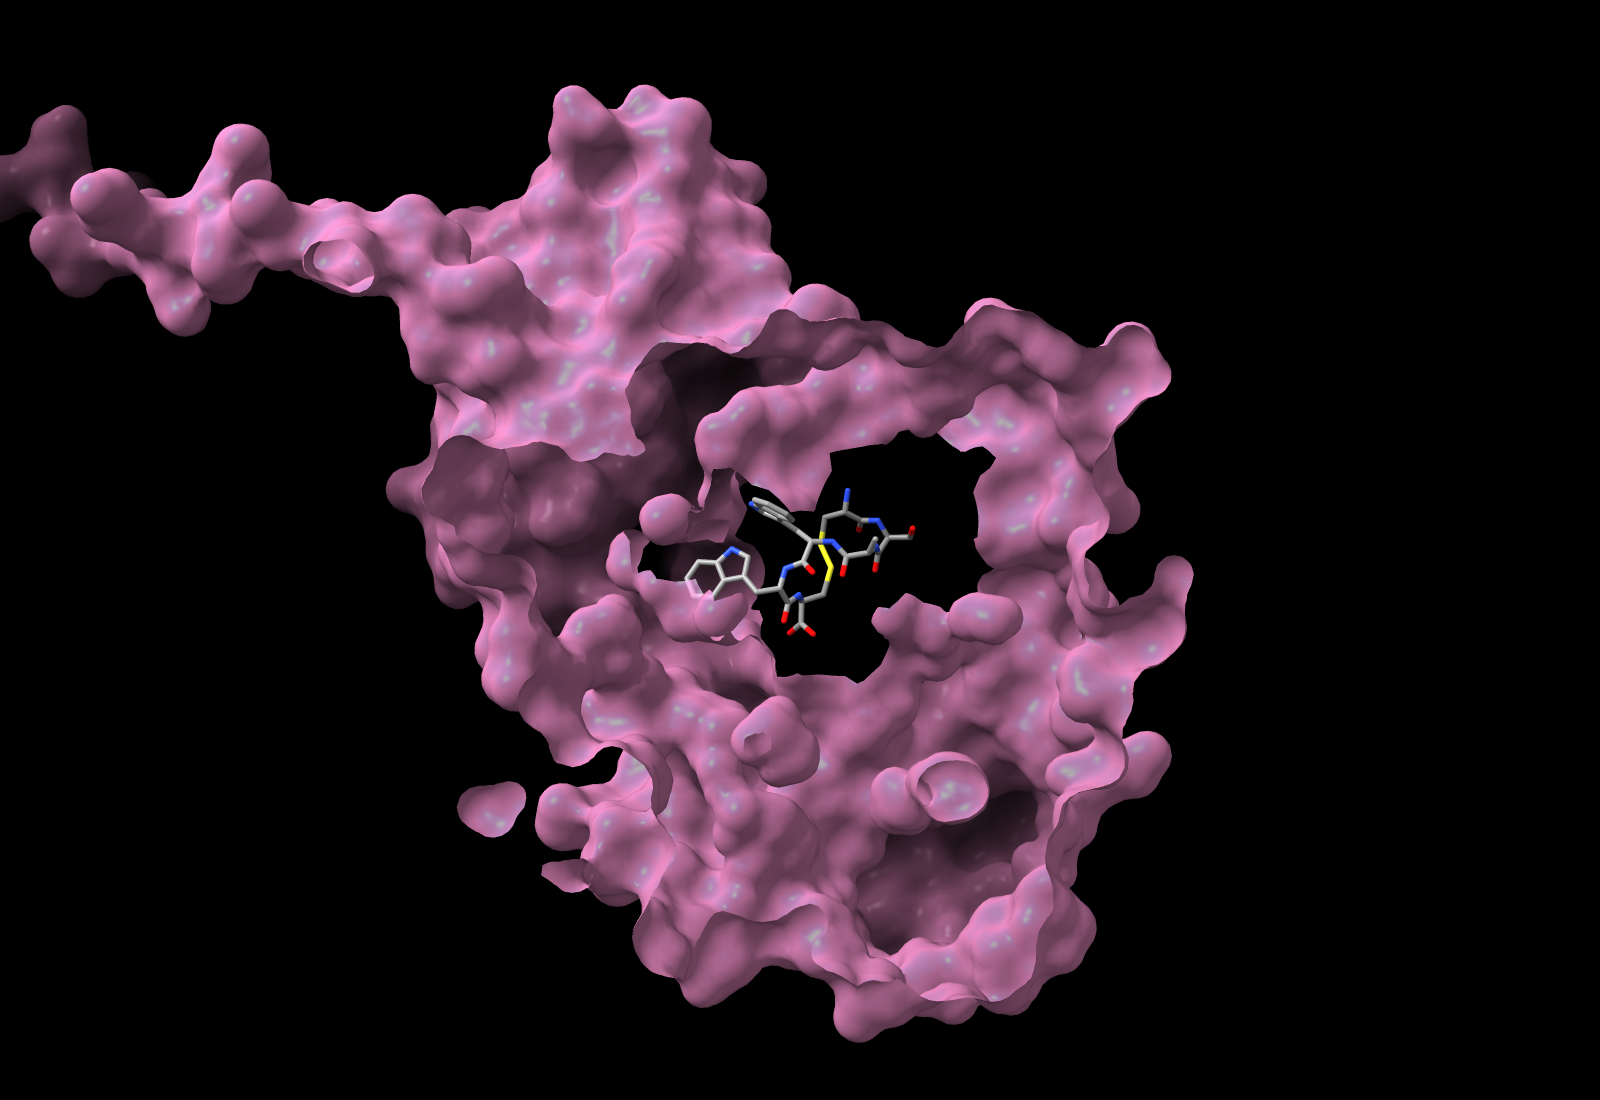
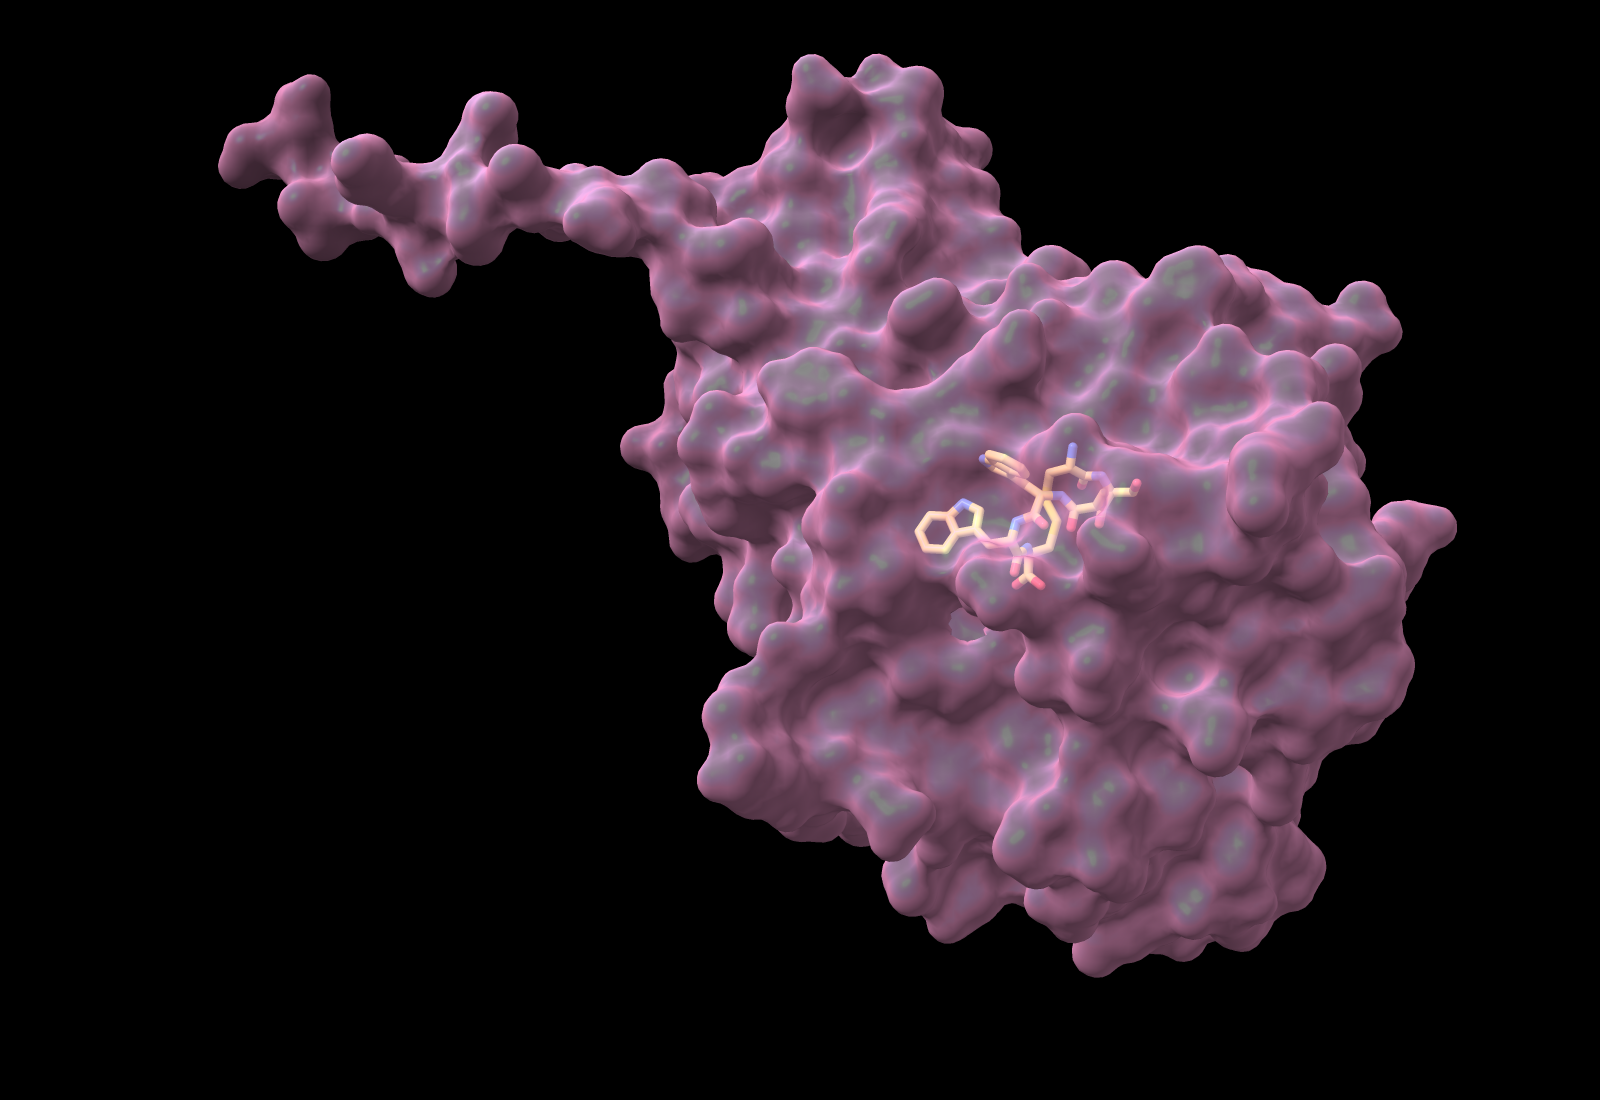
Show intact JAK1 surface with distinct docked peptide

diff --git a/docs/index.html b/docs/index.html
@@ -80,7 +80,7 @@
           <figure><a href="assets/jak2-csawwc-docked.png?v=2" target="_blank" rel="noopener"><img src="assets/jak2-csawwc-docked.png?v=2" alt="AutoDock-GPU pose of CSAWWC with JAK2 shown as peptide sticks and protein ribbon, including the Cys1-Cys6 disulfide bond" loading="lazy"></a><figcaption><span>JAK2</span> CSAWWC docked complex</figcaption></figure>
           <figure><a href="assets/jak3-csawwc-docked.png?v=2" target="_blank" rel="noopener"><img src="assets/jak3-csawwc-docked.png?v=2" alt="AutoDock-GPU pose of CSAWWC with JAK3 shown as peptide sticks and protein ribbon, including the Cys1-Cys6 disulfide bond" loading="lazy"></a><figcaption><span>JAK3</span> CSAWWC docked complex</figcaption></figure>
         </div>
-        <figure class="surface-feature"><a href="assets/jak1-csawwc-pink-surface.png?v=3" target="_blank" rel="noopener"><img src="assets/jak1-csawwc-pink-surface.png?v=3" alt="Cutaway pink JAK1 protein surface around the docked CSAWWC peptide, shown separately as connected sticks" loading="lazy"></a><figcaption><span>SURFACE CUTAWAY</span><strong>JAK1 / CSAWWC</strong>The pink surface represents JAK1 only; CSAWWC is shown separately as sticks. Surface patches immediately over the peptide are hidden to expose its pose. The opening is a visualization cutaway, not a measured cavity boundary.</figcaption></figure>
+        <figure class="surface-feature"><a href="assets/jak1-csawwc-pink-surface.png?v=4" target="_blank" rel="noopener"><img src="assets/jak1-csawwc-pink-surface.png?v=4" alt="Complete pink JAK1 molecular surface with docked CSAWWC shown separately as gold sticks in the binding pocket" loading="lazy"></a><figcaption><span>SURFACE VIEW</span><strong>JAK1 / CSAWWC</strong>The complete JAK1 surface is shown in translucent pink. Docked CSAWWC is displayed separately in gold sticks, with its disulfide bond connected. No protein surface is removed in this view.</figcaption></figure>
 
         <div class="md-layout">
           <div class="md-copy"><p class="section-index">DYNAMIC FOLLOW-UP</p><h3>Earlier 100 ns MD panel</h3><p>CPYWWC, CGGWWC, and CWGGWC were examined against JAK1, JAK2, and JAK3 in three independent trajectories per complex. Peptide RMSD describes structural movement after receptor alignment, not binding affinity.</p><p class="md-status">A separate five-peptide × three-JAK panel is ongoing. Its results are not shown as completed.</p></div>
